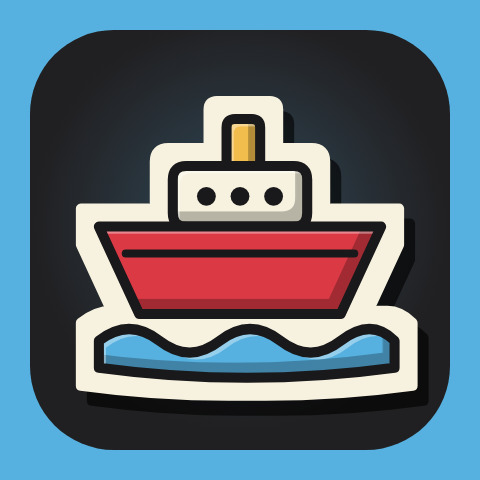
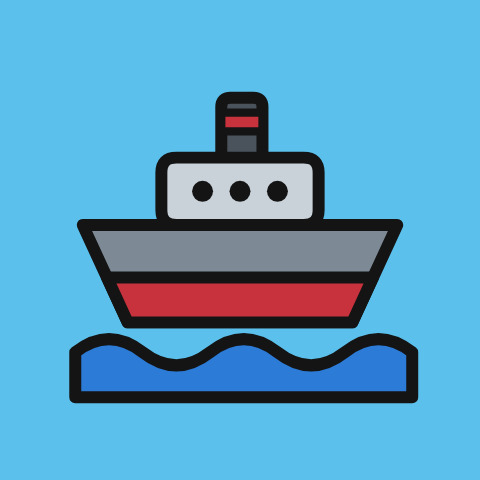
Icone dei giochi in stile Inchiostro, come i loghi in Grafiche: contorno nero, niente ombre, oggetti nei loro colori veri (scopa di legno e paglia, lupo grigio, dadi bianchi, bersaglio vero, palle da biliardo sul panno verde) su fondi pieni diversi per ogni gioco; tolte le icone adesivo

diff --git a/apps/app/src/ui/GameArt.tsx b/apps/app/src/ui/GameArt.tsx
@@ -1,9 +1,8 @@
 import { Image, View, type ImageSourcePropType } from 'react-native';
 
 /**
- * Le icone dei giochi in stile adesivo (22/11/2026): un disegno con contorno scuro, ombra e luce e il bordo crema
- * fustellato, su un riquadro quasi nero dentro una cornice colorata. La cornice non è mai del colore principale del disegno.
- * Disegnate in SVG ed esportate come immagini 480×480.
+ * Le icone dei giochi in stile Inchiostro (22/11/2026), come i loghi in Grafiche/loghi giochi: contorno nero, niente ombre,
+ * oggetti nei loro colori veri su un fondo pieno che cambia da gioco a gioco. Disegnate in SVG ed esportate a 480×480.
  */
 const ART: Record<string, ImageSourcePropType> = {
   scopa: require('../../assets/games/scopa.jpg'),
